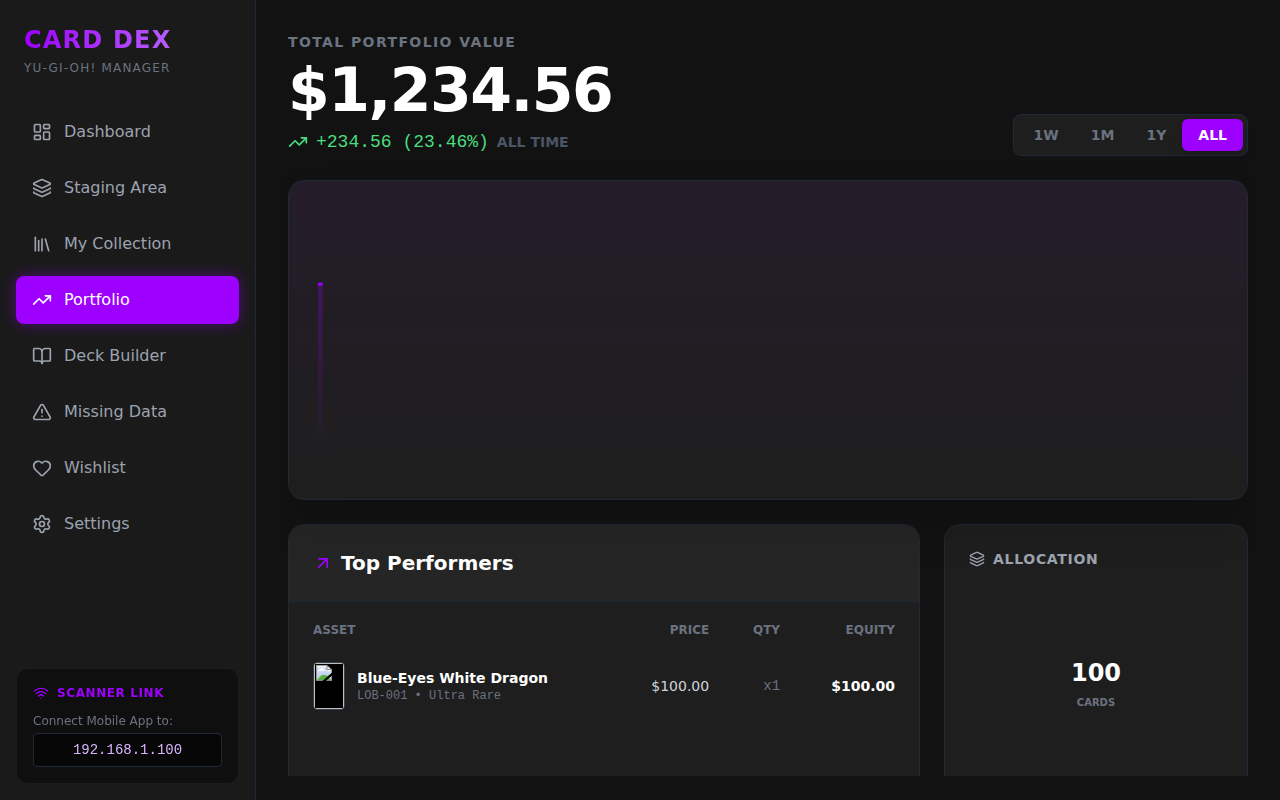
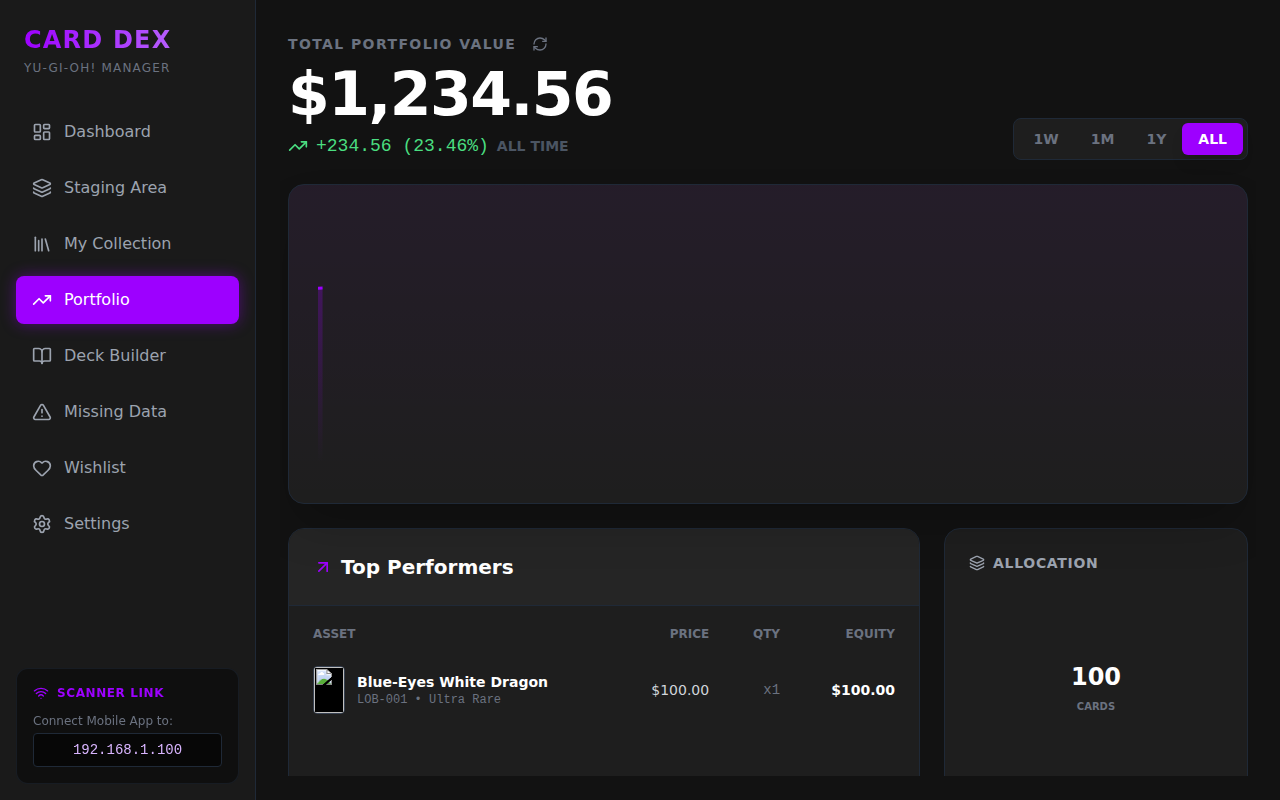
fix: Resolve rarity selection glitch and portfolio data issues
- Frontend: Deduplicated set options in `CardDetailModal.jsx` to fix "multiple selection" bug in `CustomSelect`.
- Backend: Updated `performCardUpdate` in `main.cjs` to fallback to generic card price if specific set price is zero or missing.
- Frontend: Updated `Portfolio.jsx` to format chart dates (local time) and added a manual "Refresh Prices" button.
- Frontend: Verified app health and corrected linting warnings.

diff --git a/desktop/src/components/Portfolio.jsx b/desktop/src/components/Portfolio.jsx
@@ -1,6 +1,6 @@
 import { useState, useEffect, useMemo } from 'react';
 import { AreaChart, Area, XAxis, YAxis, CartesianGrid, Tooltip, ResponsiveContainer, PieChart, Pie, Cell } from 'recharts';
-import { TrendingUp, TrendingDown, ArrowUpRight, DollarSign, Clock, Layers } from 'lucide-react';
+import { TrendingUp, TrendingDown, ArrowUpRight, DollarSign, Clock, Layers, RefreshCw } from 'lucide-react';
 
 export default function Portfolio() {
     const [history, setHistory] = useState([]);
@@ -9,6 +9,7 @@ export default function Portfolio() {
     const [timeframe, setTimeframe] = useState('ALL');
     const [allocation, setAllocation] = useState([]);
     const [isLive, setIsLive] = useState(false);
+    const [isRefreshing, setIsRefreshing] = useState(false);
 
     const loadData = async () => {
         if (!window.api) return;
@@ -93,6 +94,15 @@ export default function Portfolio() {
     const percentChange = startValue > 0 ? (absoluteChange / startValue) * 100 : 0;
     const isPositive = absoluteChange >= 0;
 
+    const handleRefresh = async () => {
+        setIsRefreshing(true);
+        if (window.api) {
+            await window.api.updateAllCards();
+            loadData();
+        }
+        setIsRefreshing(false);
+    };
+
     const COLORS = ['#9D00FF', '#00C49F', '#FFBB28', '#FF8042'];
 
     return (
@@ -107,6 +117,14 @@ export default function Portfolio() {
                                  Live Update
                              </span>
                          )}
+                         <button
+                            onClick={handleRefresh}
+                            disabled={isRefreshing}
+                            className="p-1 hover:bg-white/10 rounded-full transition-colors text-gray-500 hover:text-white"
+                            title="Refresh Prices"
+                         >
+                             <RefreshCw className={`w-4 h-4 ${isRefreshing ? 'animate-spin' : ''}`} />
+                         </button>
                     </div>
                     <h1 className={`text-6xl font-bold text-white mt-2 tracking-tight transition-colors duration-500 ${isLive ? 'text-green-400' : ''}`}>
                         ${stats.totalValue.toLocaleString('en-US', { minimumFractionDigits: 2, maximumFractionDigits: 2 })}
@@ -149,7 +167,7 @@ export default function Portfolio() {
                             itemStyle={{ color: '#fff' }}
                             labelStyle={{ color: '#888' }}
                             formatter={(value) => [`$${value.toFixed(2)}`, 'Value']}
-                            labelFormatter={(label) => new Date(label).toLocaleDateString()}
+                            labelFormatter={(label) => new Date(label).toLocaleDateString(undefined, { year: 'numeric', month: 'short', day: 'numeric', hour: '2-digit', minute: '2-digit' })}
                         />
                         <Area
                             type="monotone"

diff --git a/desktop/src/components/CardDetailModal.jsx b/desktop/src/components/CardDetailModal.jsx
@@ -172,12 +172,21 @@ export default function CardDetailModal({ card, onClose }) {
                                 value={selectedNewSet}
                                 onChange={setSelectedNewSet}
                                 placeholder="Select Set..."
-                                options={availableSets
-                                    .filter(s => !localVariants.some(v => v.set_code === s.set_code && v.rarity === s.set_rarity))
-                                    .map(set => ({
-                                        value: `${set.set_code}|${set.set_rarity}`,
-                                        label: `${set.set_code} - ${set.set_rarity} ($${set.set_price})`
-                                    }))}
+                                options={(() => {
+                                    // Deduplicate sets based on set_code + rarity
+                                    const unique = new Map();
+                                    availableSets.forEach(s => {
+                                        const key = `${s.set_code}|${s.set_rarity}`;
+                                        if (!unique.has(key)) unique.set(key, s);
+                                    });
+
+                                    return Array.from(unique.values())
+                                        .filter(s => !localVariants.some(v => v.set_code === s.set_code && v.rarity === s.set_rarity))
+                                        .map(set => ({
+                                            value: `${set.set_code}|${set.set_rarity}`,
+                                            label: `${set.set_code} - ${set.set_rarity} ($${set.set_price})`
+                                        }));
+                                })()}
                             />
                         </div>
                         <button
